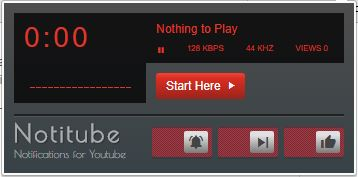
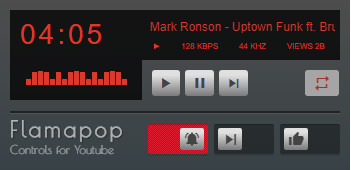
Rebranding

diff --git a/index.html b/index.html
@@ -5,10 +5,11 @@
     <meta name="description" content="">
     <meta name="author" content="">
 
-    <title>Notitunes</title>
+    <title>Flamapop - Controls for Youtube</title>
 
     <!-- Bootstrap core CSS -->
     <link href="https://bootswatch.com/paper/bootstrap.min.css" rel="stylesheet">
+    <link href="https://cdnjs.cloudflare.com/ajax/libs/material-design-iconic-font/2.2.0/css/material-design-iconic-font.min.css" rel="stylesheet">
 
     <!-- HTML5 shim and Respond.js for IE8 support of HTML5 elements and media queries -->
     <!--[if lt IE 9]>
@@ -34,7 +35,12 @@
           </button>
           <a class="navbar-brand" href="#">
             <div class="brand">
-              <span>N</span>
+              <span>F</span>
+              <span>l</span>
+              <span>a</span>
+              <span>m</span>
+              <span>a</span>
+              <span>p</span>
               <!-- https://css-tricks.com/svg-line-animation-works/ -->
               <svg version="1.0" xmlns="http://www.w3.org/2000/svg"
                width="137.000000pt" height="127.000000pt" viewBox="0 0 137.000000 127.000000"
@@ -54,12 +60,7 @@
                 -165 137 -274 172 -89 28 -229 39 -312 24z"/>
                 </g>
               </svg>
-              <span>t</span>
-              <span>i</span>
-              <span>t</span>
-              <span>u</span>
-              <span>b</span>
-              <span>e</span>
+              <span>p</span>
             </div>
           </a>
         </div>
@@ -76,25 +77,66 @@
 
       <div class="col-md-9">
 
-        <h6 class="section-title title-border">What is Notitube?</h6>
-        <p>Notitube is a Google Chrome extension that will allow you to have desktop notifications every time a Youtube video changes in your browser, you can skip videos directly from your notifications or even make likes if you want It.</p>
-        <p> With this extension you also will be able to control the reproduction status of the current video from any tab in your browser; pause, play or skip to the next video at any moment without switch from your current tab, It's a perfect fit for the Youtube's playlist.</p>
+        <h6 class="section-title title-border">What is Flamapop?</h6>
+
+        <p>Flamapop is a Google Chrome extension that will allow you to control the reproduction status of the current Youtube video from any tab in your browser; pause, play or skip to the next video at any moment without switch from your current tab, It's a perfect fit for your Youtube playlists.</p>
+
+        <p>With Flamapop you also will be able to have desktop notifications every time a Youtube video changes in your browser, you can skip videos directly from your notifications or even make likes if you want It.</p>
         
-        <div class="col-sm-6 pic"><img src="img/Captura2.png" alt=""></div>
-        <div class="col-sm-6 pic"><img src="img/Captura4.png" alt=""></div>
-        <!--<div class="col-sm-6"><img src="img/Captura4.jpg" alt=""></div>
-        <div class="col-sm-6"><img src="img/Captura5.jpg" alt=""></div> -->
+        <div class="col-sm-6 pic">
+          <img src="img/Captura1.jpg" alt="flamapop ui">
+          <h6>1. Flamapop User Interface</h6>
+        </div>
+        <div class="col-sm-6 pic last">
+          <img src="img/Captura3.jpg" alt="flamapop notification">
+          <h6>2. Flamapop Desktop Notification</h6>
+        </div>
 
         <div class="clear"></div>
         <h6 class="section-title title-border">Features</h6>
         <ul>
-          <li>Desktop notifications</li>
           <li>Play, pause or skip your videos from any tab</li>
           <li>Loop button to repeat the current video</li>
+          <li>Desktop notifications</li>
+        </ul>
+
+        <h6 class="section-title title-border">Controls Reference</h6>
+        <ul class="controls">
+          <li>
+            <i class="zmdi zmdi-play"></i>
+            <i class="zmdi zmdi-pause"></i>
+            <strong>Play/Pause Buttons</strong>
+            <span>Sets the current video on play or pause</span>
+          </li>
+          <li>
+            <i class="zmdi zmdi-skip-next"></i>
+            <strong>Skip Button</strong>
+            <span>Skip to the next video on the playlist</span>
+          </li>
+          <li>
+            <i class="zmdi zmdi-repeat"></i>
+            <strong>Toggle Loop</strong>
+            <span>On enabled It sets the current video to be repeated</span>
+          </li>
+          <li>
+            <i class="zmdi zmdi-notifications-active"></i>
+            <strong>Toggle Notifications</strong>
+            <span>Enable or disable desktop notifications</span>
+          </li>
+          <li>
+            <i class="zmdi zmdi-skip-next"></i>
+            <strong>Toggle Skip</strong>
+            <span>Enable or disable the Skip option on desktop notifications</span>
+          </li>
+          <li>
+            <i class="zmdi zmdi-thumb-up"></i>
+            <strong>Toggle Likes</strong>
+            <span>Enable or disable the Like option on desktop notifications</span>
+          </li>
         </ul>
 
         <h6 class="section-title title-border">Where to Download?</h6>
-        <p><a href="#">Notitube at Chrome Store</a></p>
+        <p><a href="#">Flamapop at Chrome Store</a></p>
         <p>&nbsp;</p>
 
       </div>
@@ -107,6 +149,11 @@
           </li>
         </ul>
 
+        <a href="https://twitter.com/flamapop" target="_blank" class="btn btn-block">
+          <i class="zmdi zmdi-twitter"></i> Follow @flamapop
+        </a>
+
+        <p>&nbsp;</p>
       </div>
 
     </div> <!-- /container -->

diff --git a/css/style.css b/css/style.css
@@ -1,6 +1,7 @@
 @import url(https://fonts.googleapis.com/css?family=Poiret+One);
 
 body {
+  font-size: 14px;
   padding-top: 100px;
   background: #f8f8f8 url(../img/clean-container.jpg) repeat top left; 
 }
@@ -13,10 +14,22 @@ a {
   clear: both;
 }
 
-.pic { display: flex; justify-content: center; align-items: center; }
+.pic { 
+  display: flex;
+  flex-direction: column; 
+  justify-content: center; 
+  align-items: center; 
+}
 .pic img {
   width: 100%;
   margin-bottom: 20px;
+  margin-top: 15px;
+}
+.pic h6 {
+  color: #999;
+}
+div.pic.last img {
+  margin-top: 25px;
 }
 
 .section-title { 
@@ -42,10 +55,10 @@ a {
     vertical-align: text-bottom;
 }
 .brand svg {
-  width: 32px;
-  height: 32px;
+  width: 24px;
+  height: 24px;
   position: relative;
-  top: -2px;
+  top: 3px;
   stroke-width: 24px;
 }
 .navbar-inverse { background-color: #f5f5f5; }
@@ -56,5 +69,27 @@ a {
 .navbar-inverse .navbar-brand:hover, 
 .navbar-inverse .navbar-brand:focus {
     color: #e87e76;
+}
+
+ul.controls {
+  list-style: none;
+  padding: 0;
+  margin: 0;
+}
+ul.controls li {
+  margin-bottom: 8px;
+}
+ul.controls i {
+  border: solid 1px #bbb;
+    padding: 5px;
+    border-radius: 2px;
+    margin-right: 5px;
+    width: 24px;
+    text-align: center;
+    vertical-align: bottom;
+}
+
+ul.controls li strong {
+  color: #F44336;
 }
 
